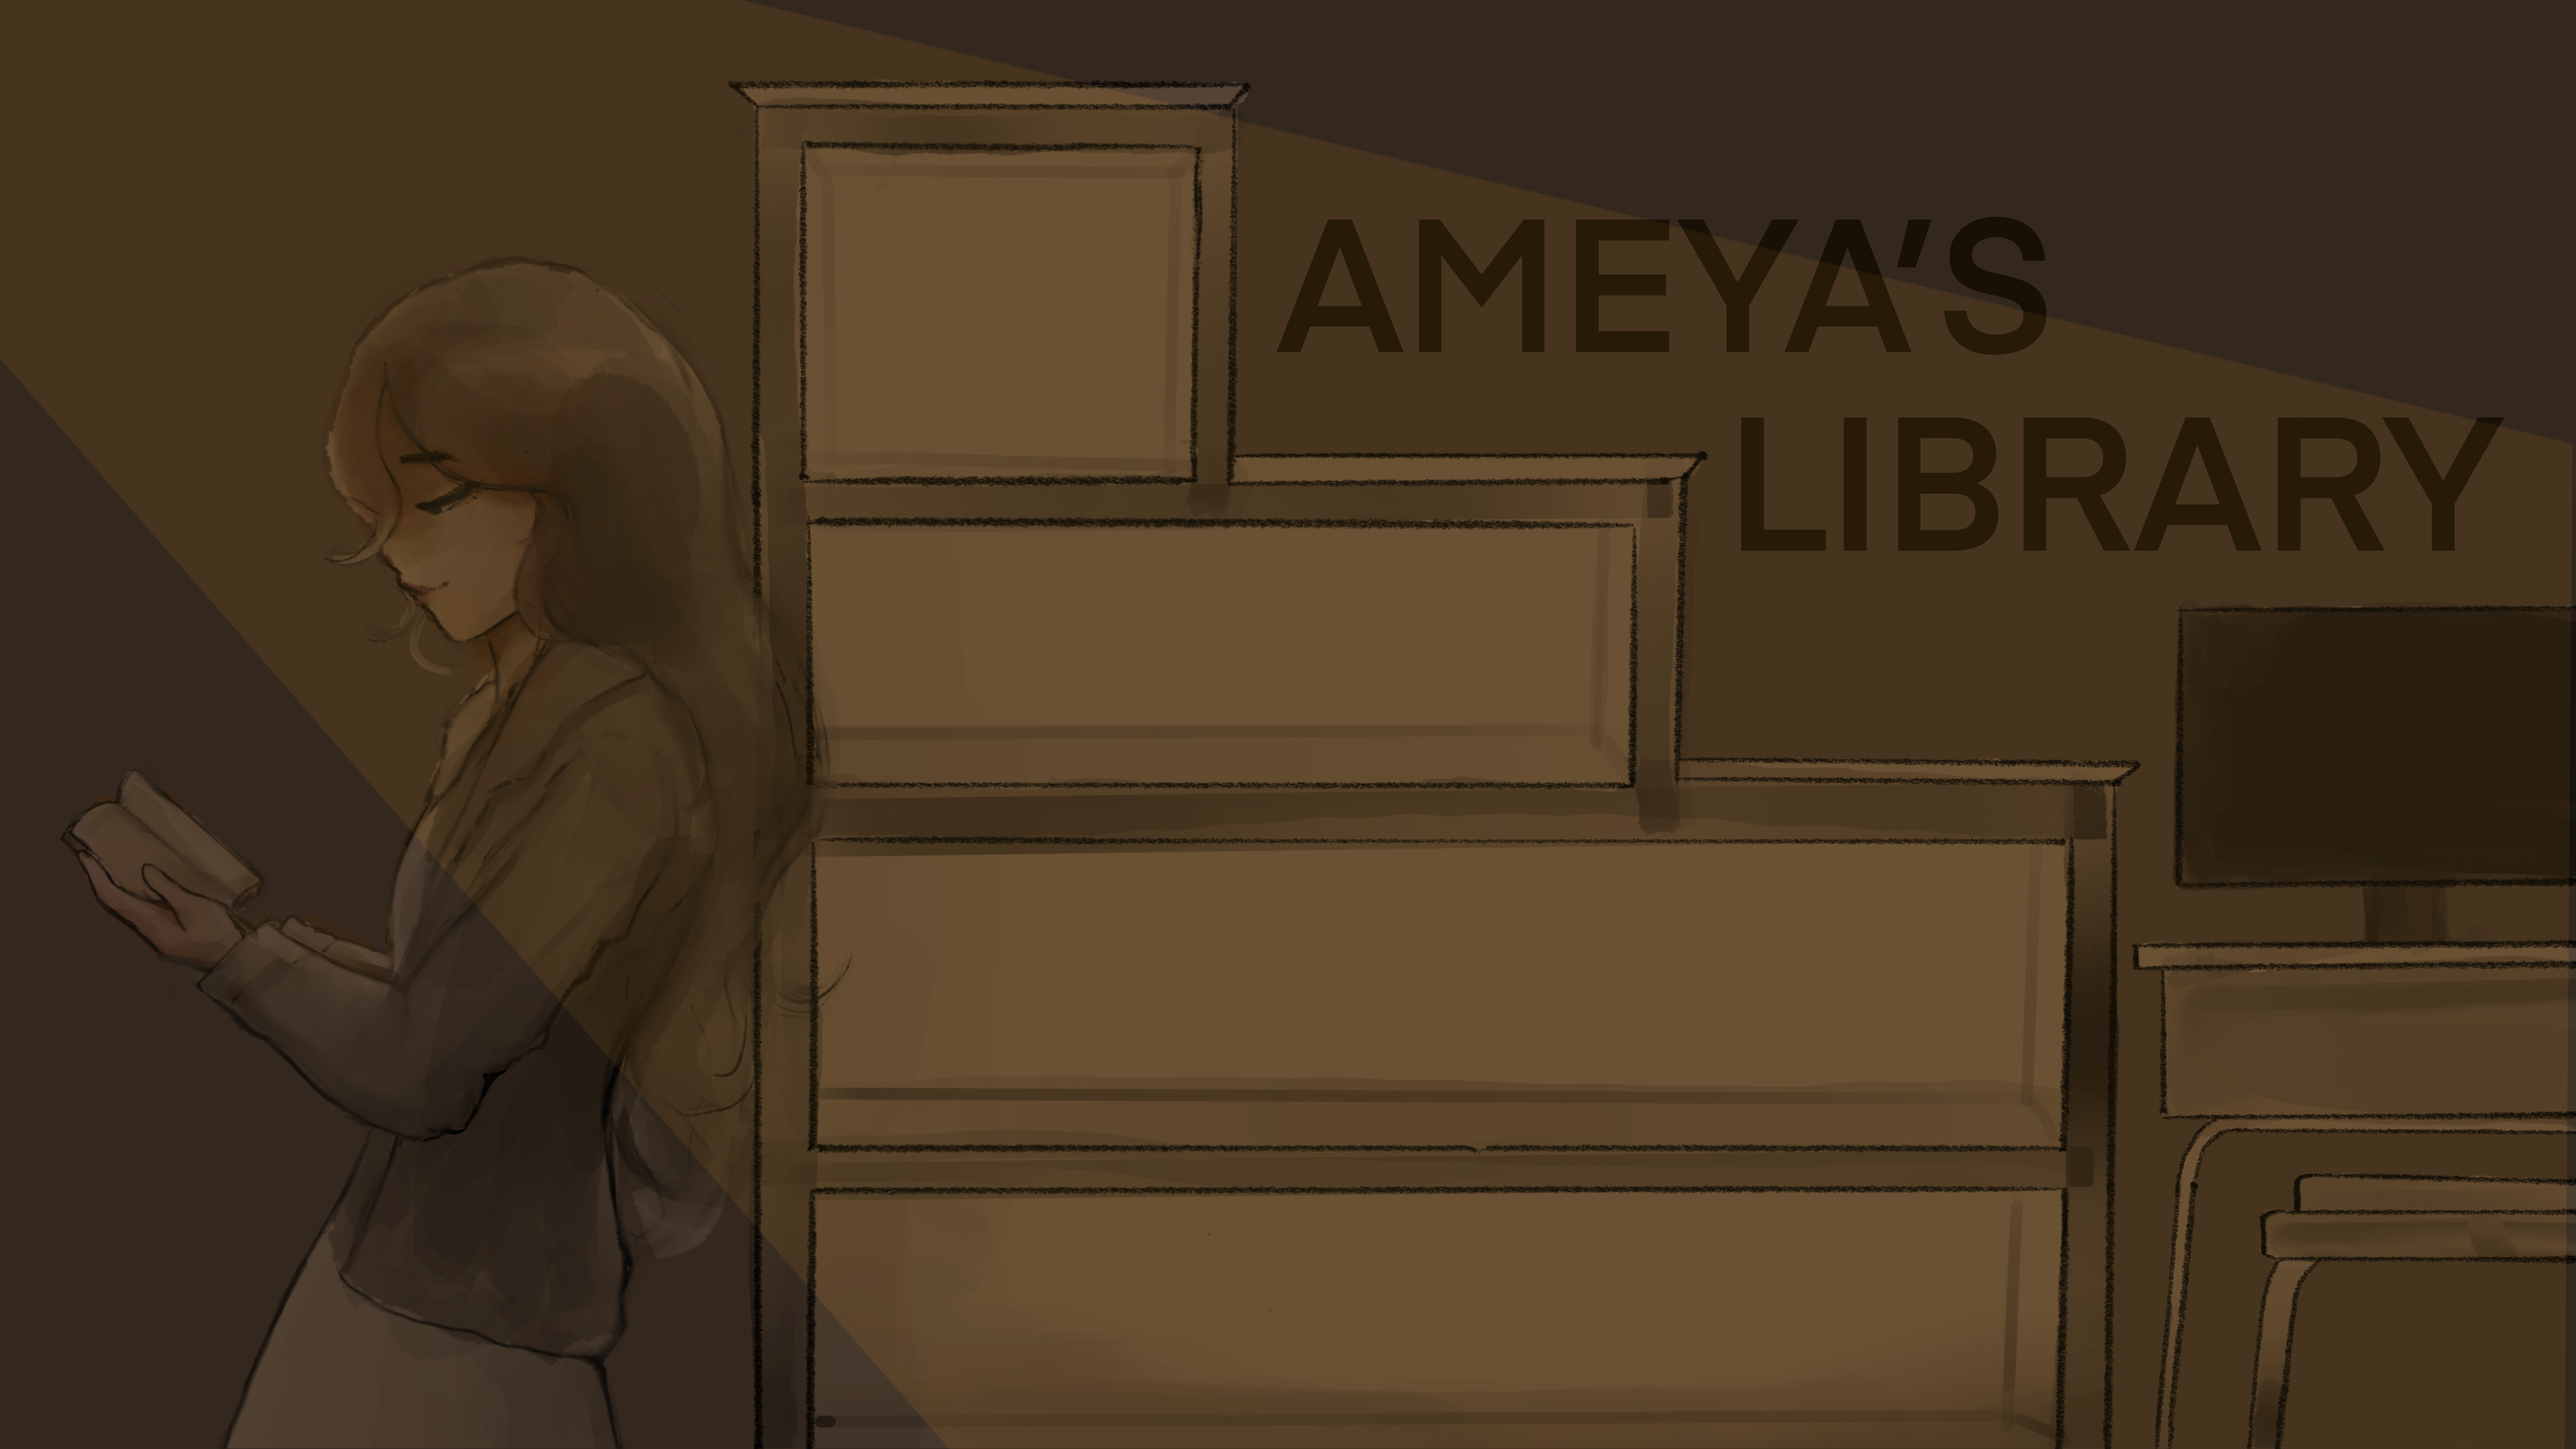
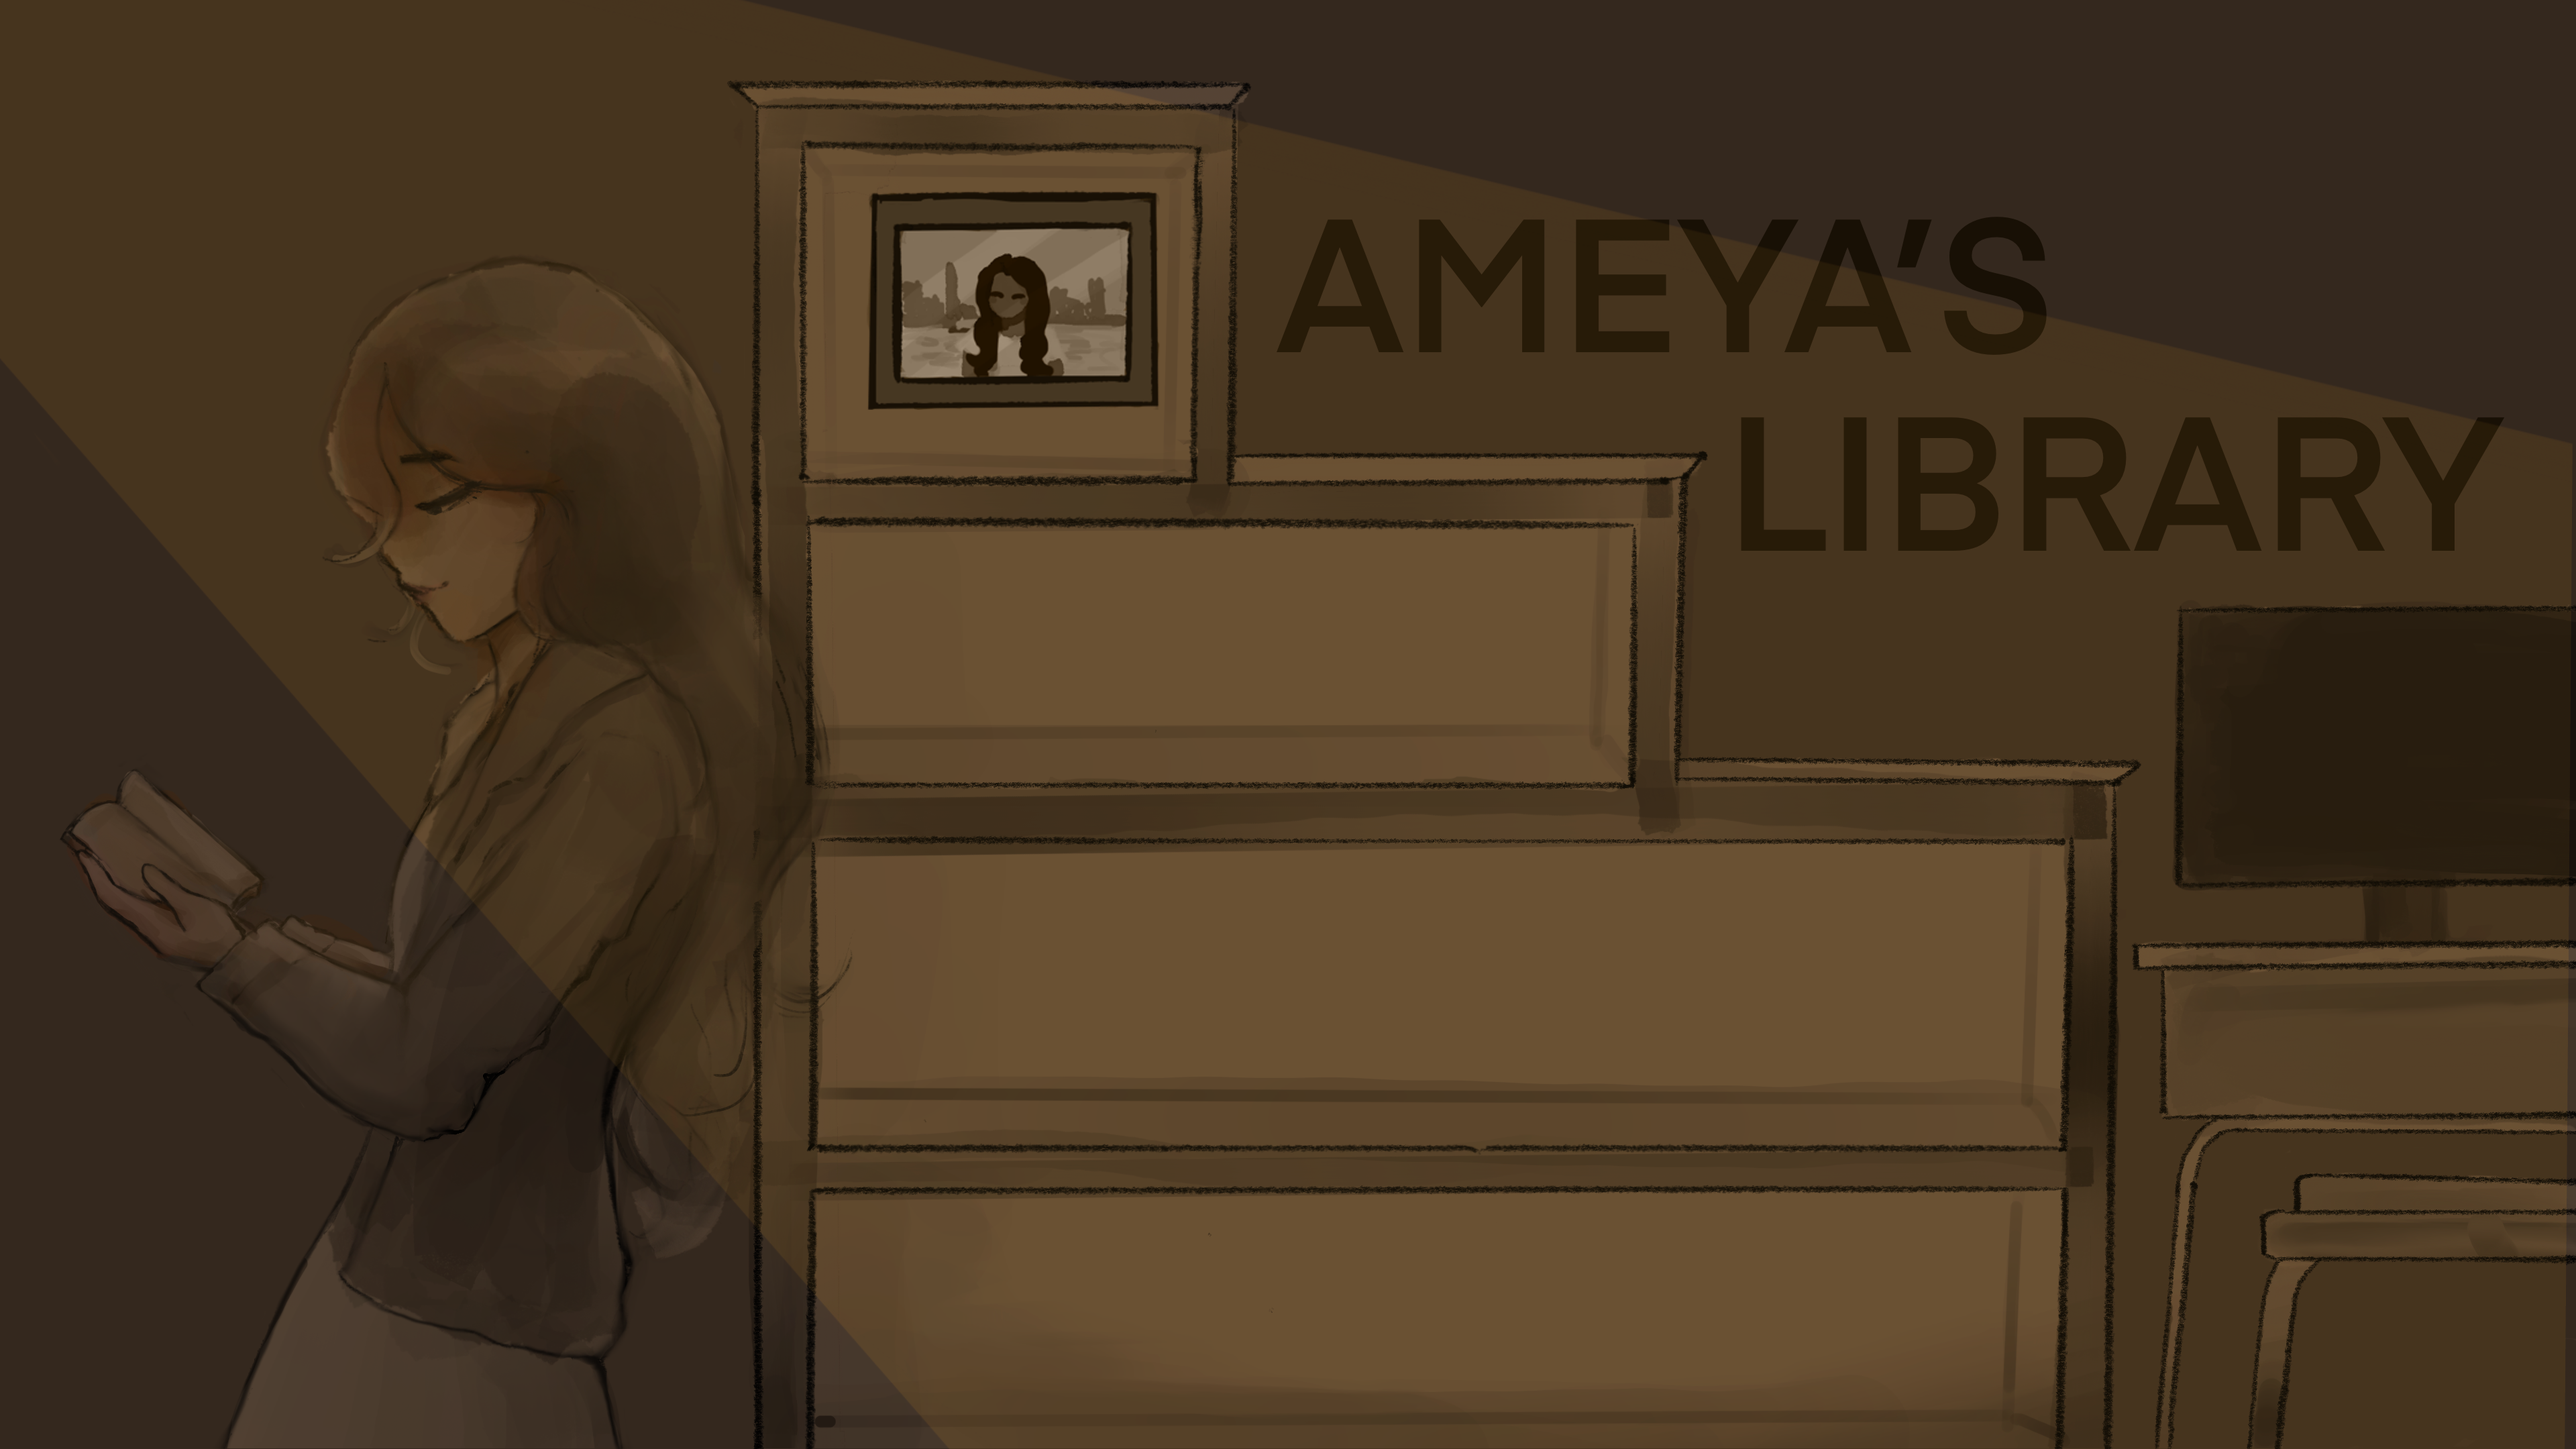
Painting: framed portrait hung in the top cubby; fine-art hotspot fitted to the frame

Changed region(s): [[0.3125, 0.1241, 0.4688, 0.2792]]

diff --git a/config.js b/config.js
@@ -71,8 +71,8 @@ const SECTIONS = [
   {
     id: "fine-art",
     label: "Fine art",
-    object: "framed picture, top cubby of the shelf",
-    hotspot: { x: 31.5, y: 10, w: 15.5, h: 23 },
+    object: "framed picture in the top cubby of the shelf",
+    hotspot: { x: 33.4, y: 12.8, w: 11.8, h: 15.7 },
     shape: "rect",
     labelPosition: "right",
     theme: "gallery",
